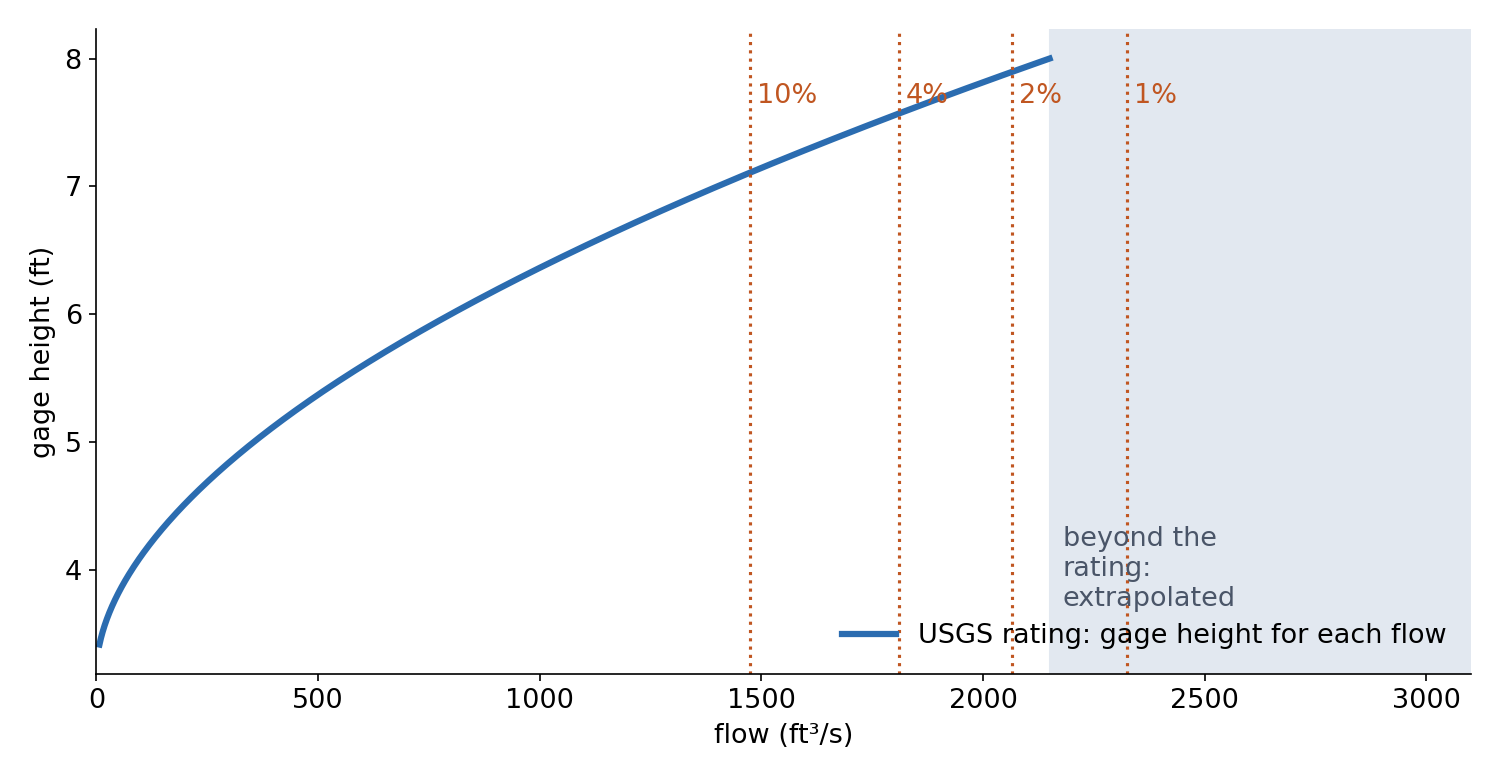
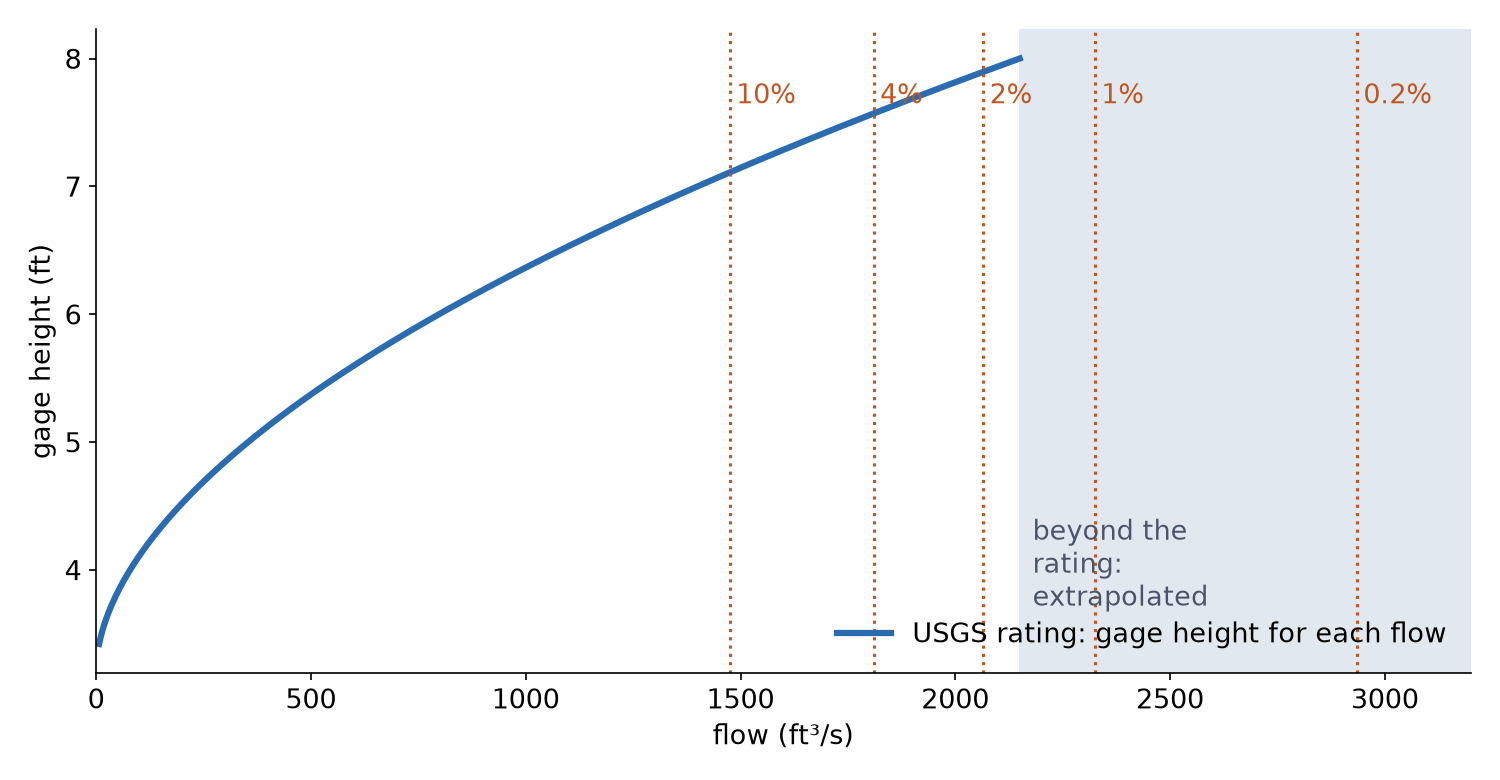
Week 8 decks and floods quiz: match the cut Lab 7
Tuesday's deck now lists all five FEMA flows (the 0.2% flow was missing
from the probability slide and the rating figure, though Lab 7 floods it),
says the 1% and 0.2% levels are both extrapolated, counts FEMA's 43
cross-sections (42 carry a riverine 1% water surface), and points students
at Lab 7 Step 1 before Thursday. The gage-datum slide and the floods quiz
no longer say the datum "cancels out": it never enters h, but it is what
turns a gage height into an elevation, which the lab's report asks about.

Thursday's Lab 7 slide is shortened so the link no longer runs into the
footer, and its notes drop the removed 25-year verification row. Both
decks are re-stamped. fl-rating.png was regenerated from the package
rating with all five flows (tools/week08_flood_figures.py, rating section
only).

diff --git a/docs/quizzes/floods/index.html b/docs/quizzes/floods/index.html
@@ -61,7 +61,7 @@ CE414Quiz.start({
         "The DEM has no vertical datum to use"
       ],
       answer: "HAND is also a height above the river",
-      explanation: "Depth is gage height minus the zero-flow offset, a height above the river bottom, which is exactly what HAND measures for every cell. The gage datum cancels out, so it never enters the model."
+      explanation: "Depth is gage height minus the zero-flow offset, a height above the river, which is exactly what HAND measures for every cell. The gage datum never enters h; you need it only to turn a gage height into an elevation, as a bathtub or FEMA's water surface does."
     },
     {
       prompt: "When is a bathtub model (one flat water elevation) the right flood model?",

diff --git a/tools/week08_flood_figures.py b/tools/week08_flood_figures.py
@@ -69,14 +69,12 @@ gh = [a for a, b in rt]; cfs = [b for a, b in rt]
 NUM["rating"] = dict(rows=len(rt), gh_min=min(gh), gh_max=max(gh), q_min=min(cfs), q_max=max(cfs))
 fig, ax = plt.subplots(figsize=(10, 5.2))
 ax.plot(cfs, gh, color="#2b6cb0", lw=3, label="USGS rating: gage height for each flow")
-ax.axvspan(max(cfs), 3100, color="#e2e8f0")
+ax.axvspan(max(cfs), 3200, color="#e2e8f0")
 ax.text(max(cfs) + 30, min(gh) + 0.3, "beyond the\nrating:\nextrapolated", color="#4a5568")
-for k, v in FEMA.items():
-    if k == "0.2%":
-        continue
+for k, v in FEMA.items():   # all five, so the 0.2% (500-year) flow Lab 7 floods shows beyond the rating too
     ax.axvline(v, color="#c05621", ls=":", lw=1.5)
     ax.text(v + 15, max(gh) - 0.35, k, color="#c05621")
-ax.set_xlim(0, 3100); ax.set_xlabel("flow (ft³/s)"); ax.set_ylabel("gage height (ft)")
+ax.set_xlim(0, 3200); ax.set_xlabel("flow (ft³/s)"); ax.set_ylabel("gage height (ft)")
 ax.legend(frameon=False, loc="lower right")
 save(fig, "fl-rating.png")
 

diff --git a/slides/week-08/flood-models.md b/slides/week-08/flood-models.md
@@ -23,10 +23,10 @@ Civil & Construction Engineering
 Brigham Young University
 Dr. Dan Ames
 
-<!-- Tuesday of Week 8, the third of the water weeks: Lab 5 found where the water goes, Lab 6 measured how much a lake holds, and this week asks how high a river rises and what it covers. Today is the hydrology and the simplest flood model; Thursday is HAND and Lab 7. Midterm 1 is open in the Testing Center all week. The title image is three of FEMA's own cross-sections of the Provo River in Provo, with the 1% water surface over the lidar ground. -->
+<!-- Tuesday of Week 8, the third of the water weeks: Lab 5 found where the water goes, Lab 6 measured how much a lake holds, and this week asks how high a river rises and what it covers. Today is the hydrology and the simplest flood model; Thursday is HAND and the rest of Lab 7. Lab 7 opens today and is due Saturday: its Step 1, each student's own flow turned into a gage height and h from the rating, needs only today's material, so point them at it before Thursday. Midterm 1 is open in the Testing Center all week. The title image is three of FEMA's own cross-sections of the Provo River in Provo, with the 1% water surface over the lidar ground. -->
 
 <!-- stamp:begin -->
-<!-- _footer: '<span>CE 414 · Week 8 — Flood Mapping, Part A<span class="updated">Last Updated: 2026-10-09</span></span><span>© 2026 Daniel P. Ames · <a href="https://creativecommons.org/licenses/by/4.0/">CC BY 4.0</a></span>' -->
+<!-- _footer: '<span>CE 414 · Week 8 — Flood Mapping, Part A<span class="updated">Last Updated: 2026-10-19</span></span><span>© 2026 Daniel P. Ames · <a href="https://creativecommons.org/licenses/by/4.0/">CC BY 4.0</a></span>' -->
 <!-- stamp:end -->
 
 ---
@@ -69,9 +69,9 @@ By the end of class you should be able to:
 
 - **1% chance every year**, not "once a century" — FEMA says **1% annual chance**
 - Over a 30-year mortgage: 1 − 0.99³⁰ ≈ **26%** chance of at least one
-- FEMA's flows for this reach: **1,475 · 1,810 · 2,065 · 2,325 ft³/s** for 10%, 4%, 2%, 1%
+- FEMA's flows for this reach: **1,475 · 1,810 · 2,065 · 2,325 · 2,935 ft³/s** for 10%, 4%, 2%, 1%, 0.2%
 
-<!-- Blue: the 90 annual peaks ranked and plotted at (n+1)/rank, the simplest empirical return period. Orange: FEMA's published flows for the Provo River "3 miles above tie-in to Utah Lake", Utah County Flood Insurance Study, Table 9 (49049CV001B); the 0.2% flow is 2,935. Ask the room why two measured years sit above FEMA's 1% flow. Answers worth hearing: short records, regulation, a fitted distribution versus the raw ranks. A simple Log-Pearson III fit to this gage's own peaks since 1993 gives about 3,111 ft³/s for the 1% flow (tools/lab07, labeled a teaching approximation, not Bulletin 17C), 34% above FEMA's; two defensible "100-year floods" can differ that much. -->
+<!-- Blue: the 90 annual peaks ranked and plotted at (n+1)/rank, the simplest empirical return period. Orange: FEMA's published flows for the Provo River "3 miles above tie-in to Utah Lake", Utah County Flood Insurance Study, Table 9 (49049CV001B): the five flows Lab 7 floods. Ask the room why two measured years sit above FEMA's 1% flow. Answers worth hearing: short records, regulation, a fitted distribution versus the raw ranks. A simple Log-Pearson III fit to this gage's own peaks since 1993 gives about 3,111 ft³/s for the 1% flow (tools/lab07, labeled a teaching approximation, not Bulletin 17C), 34% above FEMA's; two defensible "100-year floods" can differ that much. This is for class discussion only: Lab 7 uses FEMA's flows and does not ask it. -->
 
 ---
 
@@ -88,9 +88,9 @@ By the end of class you should be able to:
 - The gage measures **gage height**; the **rating** converts it to flow
 - Provo's current rating: **3.42 to 8.00 ft**, **6.8 to 2,150 ft³/s**
 - Read it backwards for a flood: **flow → gage height**
-- FEMA's **1% flow is off the top** of the rating: that level is an **extrapolation**
+- FEMA's **1% and 0.2% flows are off the top** of the rating: those levels are **extrapolations**
 
-<!-- The USGS current rating for 10163000 (459 rows; the Lab 7 package, rating_10163000.csv). The dotted lines are FEMA's 10%, 4%, 2% and 1% flows; only the 1% falls in the gray band beyond the last measured row. A rating is built from field measurements, and floods are the hardest flows to measure, so the top of every rating is its least certain part. -->
+<!-- The USGS current rating for 10163000 (459 rows; the Lab 7 package, rating_10163000.csv). The dotted lines are FEMA's five flows; the 1% and 0.2% fall in the gray band beyond the last row, so Lab 7's stage table marks them extrapolated. Every student's own Lab 7 flow (900 to 2,088 ft³/s) is inside the table. A rating is built from field measurements, and floods are the hardest flows to measure, so the top of every rating is its least certain part. -->
 
 ---
 
@@ -101,9 +101,9 @@ By the end of class you should be able to:
 - **Gage height** is read from the staff's own zero, the **gage datum**
 - Water elevation = **datum + gage height**
 - **Depth** = gage height − the **zero-flow offset** (3.20 ft at Provo)
-- Lab 7 floods the land by **depth**, so the datum cancels out
+- HAND needs only the **depth**; the datum turns a gage height into an **elevation**, for a bathtub or for FEMA's water surface
 
-<!-- Numbers from the USGS site record and the rating file: gage datum 4,493.22 ft NAVD 88; the rating's offset is 3.20 ft (the gage height at which flow would be zero). Lab 7 uses depth above the river, h = gage height − 3.20 ft, converted to meters, which is why Thursday's HAND model never needs the datum. Diagram drawn for this deck (not to scale). -->
+<!-- Numbers from the USGS site record and the rating file: gage datum 4,493.22 ft NAVD 88; the rating's offset is 3.20 ft (the gage height at which flow would be zero). Lab 7 uses depth above the river, h = gage height − 3.20 ft, converted to meters, so the datum never enters h or Thursday's HAND model; it is what converts a gage height to an elevation, which the bathtub on the next slides and FEMA's 1% water surface (in feet NAVD 88) both need. Lab 7 Step 1 has students read the datum off the gage page, and the report asks what it means for their result: this slide is the answer's starting point. Diagram drawn for this deck (not to scale). -->
 
 ---
 
@@ -121,7 +121,7 @@ By the end of class you should be able to:
 - Right for **lakes and coasts**: Lab 6's Lake Powell shorelines were bathtubs
 - One **Con** on the DEM: `Con("DEM" <= 1372.04, 1)`
 
-<!-- 1,372.04 m NAVD 88 is the 1% water elevation at the gage in the Lab 7 stage table (FEMA's 2,325 ft³/s, gage height 8.21 ft, extrapolated above the rating; tools/lab07/package_checks.json). A lake's surface really is flat, so the bathtub is the right model there; that is exactly what Lab 6 did at Lake Powell. -->
+<!-- 1,372.04 m NAVD 88 is the 1% water elevation at the gage, ELEV_M in the Lab 7 Stage_Table: (4,493.22 + 8.21 ft) × 0.3048 (FEMA's 2,325 ft³/s, gage height 8.21 ft, extrapolated above the rating; tools/lab07/package_checks.json). A lake's surface really is flat, so the bathtub is the right model there; that is exactly what Lab 6 did at Lake Powell. -->
 
 ---
 
@@ -142,11 +142,11 @@ By the end of class you should be able to:
 ![bg right:55% w:98%](images/fl-fema-xs.png)
 
 - **1-D hydraulics** (HEC-RAS): cross-sections, roughness, bridges, and a **sloping water surface**
-- FEMA's study of this reach: **42 sections** inside the Lab 7 area
+- FEMA's study of this reach: **43 sections** inside the Lab 7 area
 - Median 1% depth above the streambed: **1.8 m**
 - Accurate, and **expensive**: one study per reach, redone every few years
 
-<!-- FEMA NFHL cross-section lines for Utah County (effective June 23, 2026; WSEL_REG and STRMBED_EL attributes, converted from feet NAVD 88), sampled against the Lab 7 5 m lidar DEM. Depths range 1.5 to 2.1 m. Section T shows the lidar channel bottom sitting above FEMA's streambed: lidar cannot see through water, and that comes back Thursday. -->
+<!-- FEMA NFHL cross-section lines for Utah County (effective June 23, 2026; WSEL_REG and STRMBED_EL attributes, converted from feet NAVD 88), sampled against the Lab 7 5 m lidar DEM. The median and range are over the 42 sections with a riverine 1% water surface (one, near Utah Lake, carries −8888 because the lake controls it). Depths range 1.5 to 2.1 m. Section T shows the lidar channel bottom sitting above FEMA's streambed: lidar cannot see through water, and that comes back Thursday. -->
 
 ---
 
@@ -177,7 +177,7 @@ By the end of class you should be able to:
 **Before next class**
 
 - **Midterm 1** — in the Testing Center, open through **Thursday 9:00 pm**
-- **Lab 7 — Flood Mapping with HAND** — due **Saturday 11:59 pm** — [Lab 7](https://byu-hydroinformatics.github.io/ce414-gis-applications/assignments/lab-07/)
+- **Lab 7 — Flood Mapping with HAND** — due **Saturday 11:59 pm**: do **Step 1**, your own flow from the rating, now — [Lab 7](https://byu-hydroinformatics.github.io/ce414-gis-applications/assignments/lab-07/)
 - Look up a stream gage near your home on the USGS map: what is its largest flow on record?
 - Office hours: [calendly.com/dan-ames/office-hours](https://calendly.com/dan-ames/office-hours)
 

diff --git a/slides/week-08/hand.md b/slides/week-08/hand.md
@@ -26,7 +26,7 @@ Dr. Dan Ames
 <!-- Thursday of Week 8. Tuesday ended on the bathtub's failure on a river and FEMA's expensive fix. Today: a terrain-only model that floods a whole river with one number, built from Lab 5's own chain plus one tool, and Lab 7, which does it on the Provo River and checks the answer against FEMA's new map. -->
 
 <!-- stamp:begin -->
-<!-- _footer: '<span>CE 414 · Week 8 — Flood Mapping, Part B<span class="updated">Last Updated: 2026-10-10</span></span><span>© 2026 Daniel P. Ames · <a href="https://creativecommons.org/licenses/by/4.0/">CC BY 4.0</a></span>' -->
+<!-- _footer: '<span>CE 414 · Week 8 — Flood Mapping, Part B<span class="updated">Last Updated: 2026-10-19</span></span><span>© 2026 Daniel P. Ames · <a href="https://creativecommons.org/licenses/by/4.0/">CC BY 4.0</a></span>' -->
 <!-- stamp:end -->
 
 ---
@@ -113,7 +113,7 @@ By the end of class you should be able to:
 - Flooded = **every cell with HAND ≤ h**: `Con("HAND" <= h, 1)`
 - A different h for each **return period**: one **iterator**, as in Lab 6
 
-<!-- The stage table in Lab 7 does the flow-to-h step for FEMA's 10%, 4%, 2% and 1% flows; students look their own flow up in the rating by hand. Raster to Polygon then gives an area and a polygon to intersect with buildings. -->
+<!-- The stage table in Lab 7 does the flow-to-h step for FEMA's five flows (10%, 4%, 2%, 1% and 0.2%); students do the same lookup by hand for their own flow in Step 1. Raster to Polygon then gives an area and a polygon, and Spatial Join counts the buildings it touches. -->
 
 ---
 
@@ -163,12 +163,12 @@ By the end of class you should be able to:
 
 # Lab 7 at a Glance
 
-![bg right:52% w:98%](images/fl-hand-chain.svg)
+![bg right:45% w:98%](images/fl-hand-chain.svg)
 
-- **The reach**: the Provo River through Provo, a **5 m lidar** DEM, prepared for you
-- **Two models, run once each**: Lab 5's chain + **Flow Distance** → HAND; one **iterator** over the stage table → five floods
-- **The answer**: flooded area and **buildings** for each FEMA flow, and for **your own flow**
-- **The check**: your 1% flood against **FEMA's** floodplain — one place where they disagree, and why
+- **The reach**: the Provo River, **5 m lidar**, prepared for you
+- **Two models, run once each**: **HAND**, then an **iterator** → five floods
+- **The answer**: flooded area and **buildings**, for FEMA's flows and **your own**
+- **The check**: your 1% flood against **FEMA's**: where they differ, and why
 
 [Lab 7 — Flood Mapping with HAND](https://byu-hydroinformatics.github.io/ce414-gis-applications/assignments/lab-07/)
 
